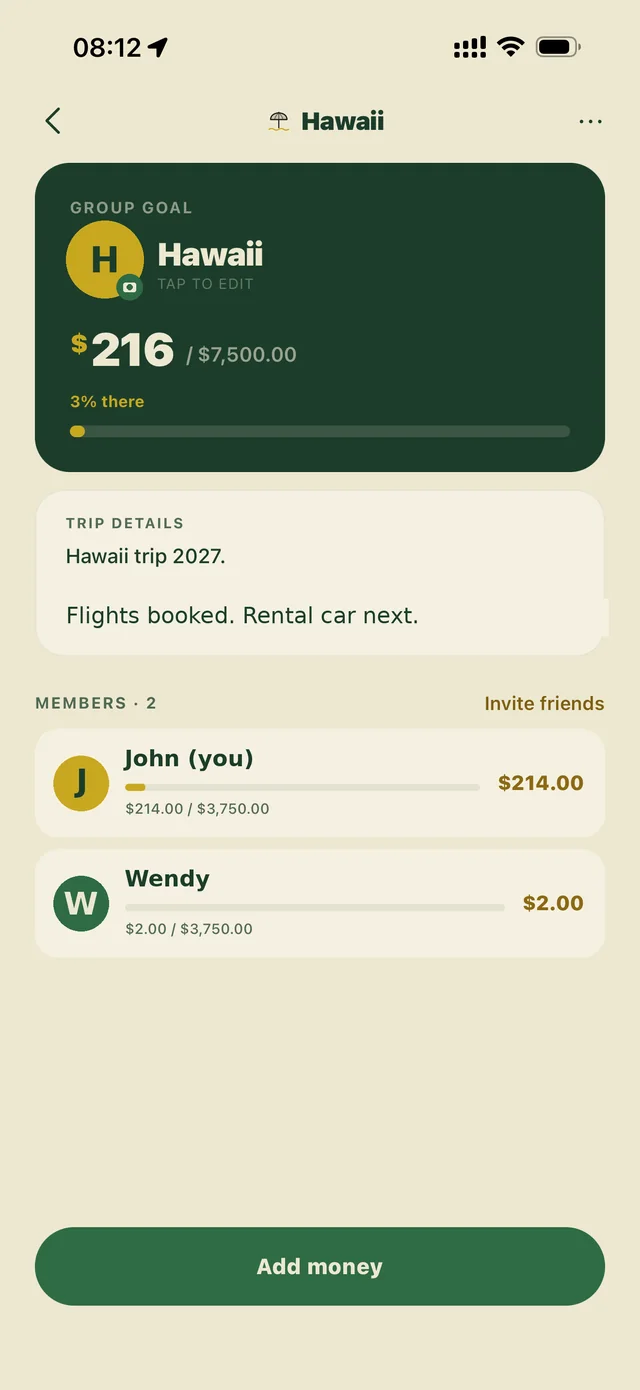
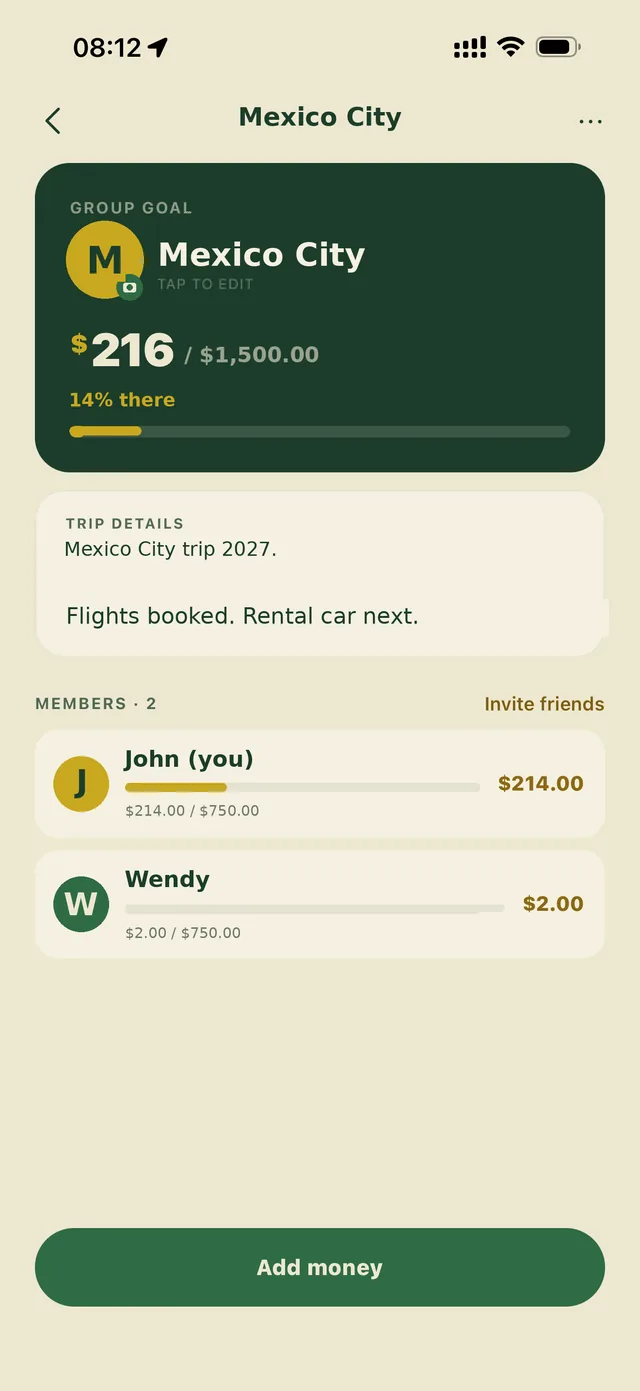
mockups(groups): the screenshot said Hawaii, the copy said Mexico City
The Groups section reads '$1,500 Mexico City trip, two of you = $750
each' next to a capture of a Hawaii goal at $216 of $7,500 with $3,750
per person. Three numbers and a destination, all disagreeing with the
sentence beside them.

The capture is amended rather than recaptured: title, avatar initial,
goal card, target, trip note, both per-person targets, and both progress
bars, with '3% there' recomputed to 14% because $216 of $1,500 is a
different fraction. Alt text follows.

Worth knowing for whoever reads this later: the edited text is set in
DejaVu Bold, not the app's own face, so the lettering is slightly wider
than the surrounding real UI. A fresh capture of a real Mexico City goal
would be better and takes about a minute in the app.

Claude-Session: https://claude.ai/code/session_014e97Zdg4bpuNZqv7sGcC1Y

diff --git a/index.html b/index.html
@@ -1631,7 +1631,7 @@ input:focus-visible,textarea:focus-visible,select:focus-visible,
     <!-- Groups phone — Trip to Mexico City group detail -->
     <div class="groups-phone-wrap reveal" data-delay="2">
       <div class="phone">
-        <div class="phone-screen"><img src="/assets/app/group.webp" alt="Miser shared goal screen: a group goal at $216 of $7,500, with both members and their individual progress." width="640" height="1390" loading="lazy" decoding="async" style="width:100%;height:100%;object-fit:cover;object-position:top;display:block"></div>
+        <div class="phone-screen"><img src="/assets/app/group.webp" alt="Miser shared goal screen: a Mexico City group goal at $216 of $1,500, with both members and their individual progress." width="640" height="1390" loading="lazy" decoding="async" style="width:100%;height:100%;object-fit:cover;object-position:top;display:block"></div>
       </div>
     </div>
 
